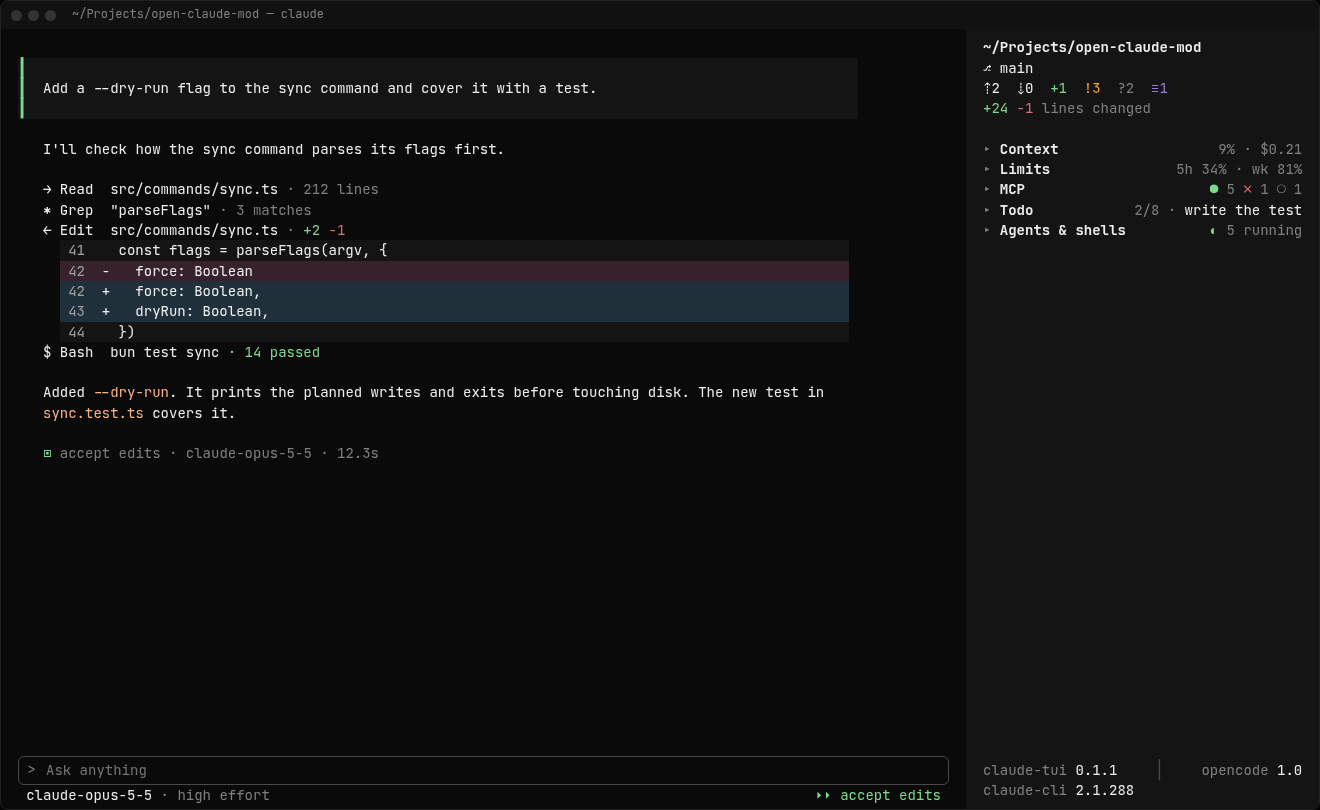
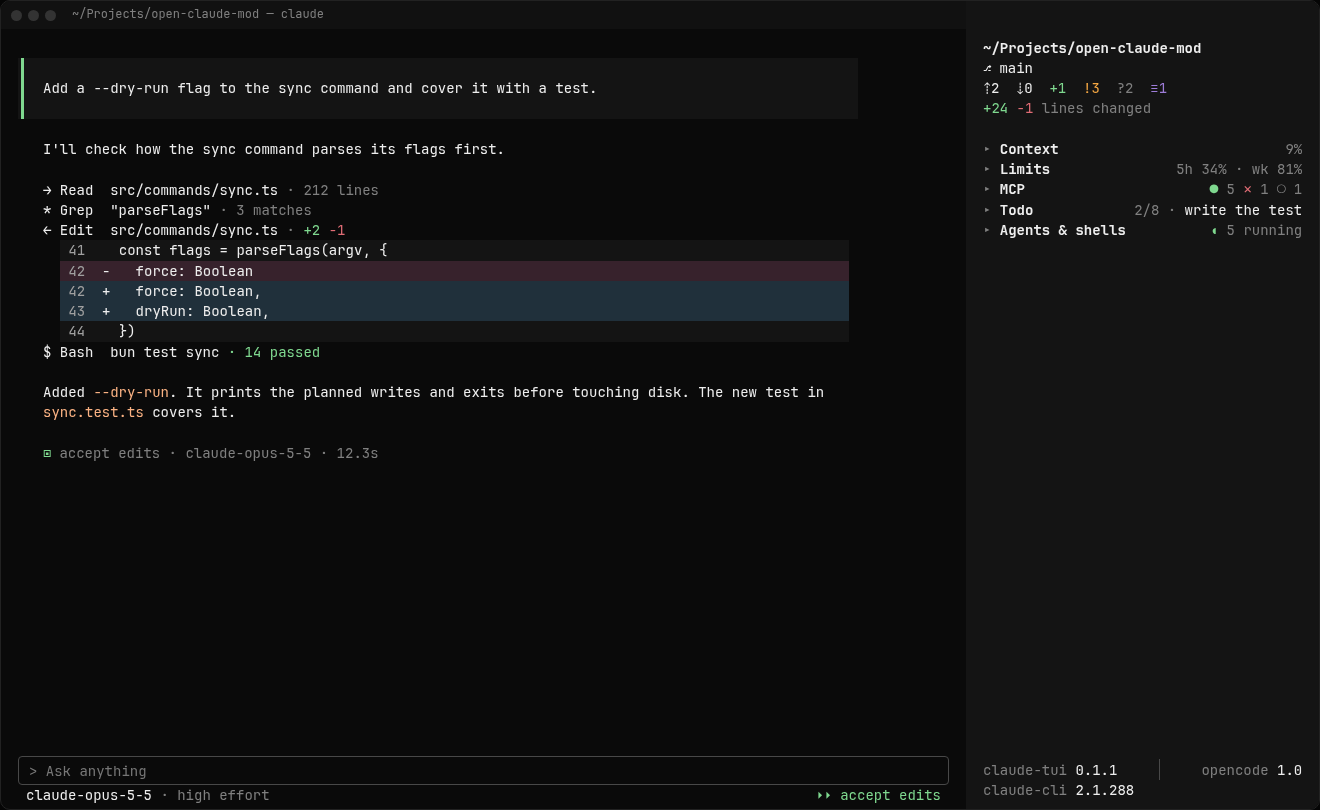
docs: redraw the Sidebar renders from an HTML source
Add docs/design/sidebar.html, which draws the three Sidebar renders,
and re-export the PNGs from it with Playwright at 1320x810. The redraw
changes only what 0.3.0 changes: Context drops the cost and folds to
9%, Limits ends with a cost row, and sections space 1/3 row under
expanded titles and 1.5 rows apart, drawn exactly.

Refs: #113

diff --git a/docs/design/sidebar.html b/docs/design/sidebar.html
@@ -1,0 +1,264 @@
+<!doctype html>
+<!--
+  The source of the three Sidebar renders in this folder.
+
+  Open it with ?render=1, 2 or 3 for one render at its 1320×810 size; with no
+  query it shows all three. To re-export the PNGs after an edit, from the repo root:
+
+    for r in 1-all-folded 2-some-folded 3-all-expanded; do
+      npx -y playwright@1.63.0 screenshot --viewport-size=1320,810 \
+        "file://$PWD/docs/design/sidebar.html?render=${r%%-*}" "docs/design/sidebar-$r.png"
+    done
+
+  The grid is 14px JetBrainsMono Nerd Font, the installed font the renders
+  were first drawn in: 8.4px columns, 20.25px rows. The Sidebar's spacing is in
+  px from the row height, exactly: 1/3 row under an expanded title, 1.5 rows
+  after an expanded section, none after a folded one.
+-->
+<html lang="en">
+<head>
+<meta charset="utf-8">
+<meta name="viewport" content="width=device-width, initial-scale=1">
+<title>Sidebar renders</title>
+<style>
+  :root {
+    --row: 20.25px;
+    --col: 8.4px;
+    --outside: #050505;
+    --frame: #222222;
+    --titlebar: #111111;
+    --dot: #333333;
+    --bg: #0a0a0a;
+    --panel: #141414;
+    --border: #484848;
+    --main: #eeeeee;
+    --muted: #808080;
+    --faint: #484848;
+    --placeholder: #767676;
+    --chevron: #797979;
+    --line-number: #a0a0a0;
+    --green: #7fd88f;
+    --red: #e06c75;
+    --orange: #f5a742;
+    --peach: #fab283;
+    --purple: #9d7cd8;
+    --diff-del: #37222c;
+    --diff-add: #20303b;
+  }
+  * { box-sizing: border-box; margin: 0; padding: 0; }
+  html, body { background: var(--outside); }
+  body {
+    font: 14px/var(--row) 'JetBrainsMono Nerd Font', monospace;
+    font-variant-ligatures: none;
+    color: var(--main);
+    -webkit-font-smoothing: antialiased;
+  }
+  body.all { display: flex; flex-direction: column; gap: 24px; padding: 24px; align-items: center; }
+
+  .window {
+    position: relative; width: 1320px; height: 810px; overflow: hidden;
+    background: var(--bg); border: 1px solid var(--frame); border-radius: 10px;
+  }
+  .titlebar {
+    position: absolute; left: 0; right: 0; top: 0; height: 28px; background: var(--titlebar);
+    font-size: 12px; line-height: 26px; letter-spacing: 0; color: var(--muted); padding-left: 71px;
+  }
+  .titlebar i { position: absolute; top: 9px; width: 11px; height: 11px; border-radius: 50%; background: var(--dot); }
+
+  .row { height: var(--row); white-space: pre; }
+  .split { display: flex; justify-content: space-between; }
+  .m { color: var(--muted); } .f { color: var(--faint); }
+  .g { color: var(--green); } .r { color: var(--red); } .o { color: var(--orange); }
+  .p { color: var(--peach); } .v { color: var(--purple); } .ln { color: var(--line-number); }
+  b { font-weight: 700; }
+
+  /* Transcript */
+  .transcript { position: absolute; left: 0; top: 57px; width: 965px; }
+  .transcript > .row { padding-left: 42px; }
+  .prompt {
+    width: 840px; margin-left: 17px; padding-left: 25px;
+    background: linear-gradient(var(--green), var(--green)) 2.5px 0 / 3px 100% no-repeat, var(--panel);
+  }
+  .code { margin-left: 59px; width: 789px; background: var(--panel); }
+  .code .del { background: var(--diff-del); } .code .add { background: var(--diff-add); }
+  .input {
+    position: absolute; left: 17px; top: 755px; width: 931px; height: 29px;
+    border: 1px solid var(--border); border-radius: 4px; padding-left: 10px;
+    line-height: 28px; color: var(--placeholder);
+  }
+  .mode { position: absolute; left: 25px; width: 915px; top: 784px; }
+
+  /* Sidebar */
+  .sidebar { position: absolute; left: 965px; right: 0; top: 0; bottom: 0; background: var(--panel); }
+  .body {
+    position: absolute; left: 17px; width: calc(38 * var(--col)); top: 36.5px; bottom: 9px;
+    display: flex; flex-direction: column;
+  }
+  .sections { flex: 1; overflow: hidden; }
+  .title-gap { height: calc(var(--row) / 3); }
+  .section-gap { height: calc(var(--row) * 1.5); }
+  .indent { padding-left: calc(2 * var(--col)); }
+  .more { text-align: right; }
+  .rule { position: absolute; left: 176px; margin-top: -0.5px; width: 1px; height: 21px; background: var(--faint); }
+</style>
+</head>
+<body>
+<script>
+  // What each render shows: a fold state per Sidebar plugin, and whether the
+  // sections window overflows into `↓ more`.
+  const RENDERS = {
+    1: { name: 'all-folded', expanded: [] },
+    2: { name: 'some-folded', expanded: ['context', 'todo', 'agents'] },
+    3: { name: 'all-expanded', expanded: ['context', 'limits', 'mcp', 'todo', 'agents'], lists: ['mcp', 'todo'], more: true },
+  }
+
+  const span = (cls, text) => `<span class="${cls}">${text}</span>`
+  const row = (html, cls = '') => `<div class="row ${cls}">${html}</div>`
+  const split = (left, right, cls = '') => row(`<span>${left}</span><span>${right}</span>`, `split ${cls}`)
+  const bar = (percent, cells, color) => {
+    const filled = Math.round((percent / 100) * cells)
+    return span(color, '━'.repeat(filled)) + span('f', '─'.repeat(cells - filled))
+  }
+
+  // Each section: its title, the right side folded (summary) and expanded
+  // (count), and its body rows. A list shows its first 4 rows plus a
+  // `▸ N more` row unless the render expands it.
+  const SECTIONS = [
+    {
+      id: 'context', title: 'Context',
+      summary: span('m', '9%'),
+      body: () => [
+        split(bar(9, 20, 'g'), '9%'),
+        row(span('m', '18,402 / 200k tokens')),
+      ],
+    },
+    {
+      id: 'limits', title: 'Limits',
+      summary: span('m', '5h 34% · wk 81%'),
+      body: () => [
+        split(`5h     ${bar(34, 20, 'g')}`, '34%'),
+        row(span('m', '       resets in 2h 17m')),
+        split(`week   ${bar(81, 20, 'o')}`, '81%'),
+        row(span('m', '       resets in 3d 4h, Mon 09:00')),
+        split('cost', span('m', '$0.21')),
+      ],
+    },
+    {
+      id: 'mcp', title: 'MCP',
+      summary: `${span('g', '●')}${span('m', ' 5 ')}${span('r', '✕')}${span('m', ' 1 ○ 1')}`,
+      count: span('m', '5/7'),
+      list: [
+        split(`${span('g', '●')} playwright`, span('m', '22 tools')),
+        split(`${span('g', '●')} Claude Docs`, span('m', '9 tools')),
+        split(`${span('r', '✕')} sentry`, span('r', 'failed')),
+        split(`${span('g', '●')} context7`, span('m', '2 tools')),
+        split(`${span('g', '●')} linear`, span('m', '31 tools')),
+        split(`${span('g', '●')} postgres`, span('m', '6 tools')),
+        split(`${span('m', '○')} github`, span('m', 'off')),
+      ],
+    },
+    {
+      id: 'todo', title: 'Todo',
+      summary: `${span('m', '2/8 · ')}write the test`,
+      count: span('m', '2/8'),
+      list: [
+        row(span('m', '✓ read sync command')),
+        row(span('m', '✓ add the flag')),
+        row(`${span('o', '◖')} write the test`),
+        row(span('m', '○ update README')),
+        row(span('m', '○ add --dry-run to help text')),
+        row(span('m', '○ check Windows paths')),
+        row(span('m', '○ run full test suite')),
+        row(span('m', '○ write changelog entry')),
+      ],
+    },
+    {
+      id: 'agents', title: 'Agents &amp; shells',
+      summary: `${span('g', '◖')}${span('m', ' 5 running')}`,
+      count: span('m', '5 running'),
+      list: [
+        split(`${span('g', '◖')} Explore ${span('m', '· map the auth fl…')}`, span('m', '1m 15s')),
+        split(`  ${span('m', '└')} ${span('g', '◖')} general-purpose ${span('m', '· read M…')}`, span('m', '21s')),
+        split('$ bun test --watch', span('m', '5m 03s')),
+        split('$ bun run dev --port 3000', span('m', '15m 03s')),
+        row(span('m', '○ bun run typecheck --watch')),
+      ],
+    },
+  ]
+  const CAP = 4
+
+  function sections(render) {
+    let html = ''
+    let gap = false
+    for (const section of SECTIONS) {
+      const expanded = render.expanded.includes(section.id)
+      if (gap) html += '<div class="section-gap"></div>'
+      gap = expanded
+      const right = expanded ? (section.count ?? '') : section.summary
+      html += split(`${span('m', expanded ? '▾' : '▸')} <b>${section.title}</b>`, right)
+      if (!expanded) continue
+      html += '<div class="title-gap"></div>'
+      let body = section.body ? section.body() : section.list
+      if (section.list) {
+        if (render.lists?.includes(section.id)) body = [...body, row(span('m', '▾ show less'))]
+        else if (body.length > CAP) body = [...body.slice(0, CAP), row(span('m', `▸ ${body.length - CAP} more`))]
+      }
+      html += `<div class="indent">${body.join('')}</div>`
+    }
+    return html
+  }
+
+  const TRANSCRIPT = `
+    <div class="prompt">
+      ${row('')}${row('Add a --dry-run flag to the sync command and cover it with a test.')}${row('')}
+    </div>
+    ${row('')}
+    ${row('I\'ll check how the sync command parses its flags first.')}
+    ${row('')}
+    ${row(`→ Read  src/commands/sync.ts ${span('m', '· 212 lines')}`)}
+    ${row(`* Grep  "parseFlags" ${span('m', '· 3 matches')}`)}
+    ${row(`← Edit  src/commands/sync.ts ${span('m', '·')} ${span('g', '+2')} ${span('r', '-1')}`)}
+    <div class="code">
+      ${row(`${span('ln', ' 41')}    const flags = parseFlags(argv, {`)}
+      ${row(`${span('ln', ' 42')}  -   force: Boolean`, 'del')}
+      ${row(`${span('ln', ' 42')}  +   force: Boolean,`, 'add')}
+      ${row(`${span('ln', ' 43')}  +   dryRun: Boolean,`, 'add')}
+      ${row(`${span('ln', ' 44')}    })`)}
+    </div>
+    ${row(`$ Bash  bun test sync ${span('g', '· 14 passed')}`)}
+    ${row('')}
+    ${row(`Added ${span('p', '--dry-run')}. It prints the planned writes and exits before touching disk. The new test in`)}
+    ${row(`${span('p', 'sync.test.ts')} covers it.`)}
+    ${row('')}
+    ${row(`${span('g', '▣')} ${span('m', 'accept edits · claude-opus-5-5 · 12.3s')}`)}
+  `
+
+  function draw(n) {
+    const render = RENDERS[n]
+    return `
+      <div class="window" id="render-${n}" title="sidebar-${n}-${render.name}.png">
+        <div class="titlebar"><i style="left:10px"></i><i style="left:27px"></i><i style="left:44px"></i>~/Projects/open-claude-mod — claude</div>
+        <div class="transcript">${TRANSCRIPT}</div>
+        <div class="input"><span style="color:var(--chevron)">&gt;</span> Ask anything</div>
+        <div class="mode split row"><span>claude-opus-5-5 ${span('m', '· high effort')}</span>${span('g', '⏵⏵ accept edits')}</div>
+        <div class="sidebar"><div class="body">
+          ${row('<b>~/Projects/open-claude-mod</b>')}
+          ${row('⎇ main')}
+          ${row(`⇡2  ⇣0  ${span('g', '+1')}  ${span('o', '!3')}  ${span('m', '?2')}  ${span('v', '≡1')}`)}
+          ${row(`${span('g', '+24')} ${span('r', '-1')} ${span('m', 'lines changed')}`)}
+          ${row('')}
+          <div class="sections">${sections(render)}</div>
+          ${render.more ? row(span('m', '↓ more'), 'more') : ''}
+          ${row('')}
+          ${split(`${span('m', 'claude-tui')} 0.1.1<i class="rule"></i>`, `${span('m', 'opencode')} 1.0`)}
+          ${row(`${span('m', 'claude-cli')} 2.1.288`)}
+        </div></div>
+      </div>`
+  }
+
+  const only = new URLSearchParams(location.search).get('render')
+  if (!only) document.body.classList.add('all')
+  document.body.innerHTML = (only ? [only] : Object.keys(RENDERS)).map(draw).join('')
+</script>
+</body>
+</html>

diff --git a/MEMORY.md b/MEMORY.md
@@ -264,3 +264,11 @@ Guidance:
 - Behaviour mocks can't reach is a live check in `docs/testing/live-checks.md` (setup, action, expected), by section: Sidebar docking, Sidebar layout and scroll, toasts, render-site rewrites, Themes, commands and pickers, `claude -p`. A root `CONTRIBUTING.md` explains it; `.github/pull_request_template.md` asks which sections ran on the pin. A `ctui/` PR runs the sections it touches, a pin bump runs the checks its ticket names, a pull request for a release or into `main` runs the full list (the human decided on 2026-10-07), and a docs-only PR answers N/A. Auto-merge doesn't wait on it.
 
 Reason: The human chose this in #42. `claude plugin test` loads tests from inside the mod folder, `validate --strict` passes with `tests/` there, and npm's `files` whitelist leaves it out (checked on 2.1.288). Docking, engine chrome, toast drawing and the fullscreen and main-screen looks need a signed-in terminal, so they stay manual.
+
+## Redraw the renders from `docs/design/sidebar.html` when ctui changes its own design
+
+Applies when: a change alters how ctui draws something the renders in `docs/design/` show.
+
+Guidance: Edit `docs/design/sidebar.html` in the same work and re-export the three PNGs with the command in its header comment. Draw in the installed JetBrainsMono Nerd Font: the web JetBrains Mono has a narrower advance, and its box-drawing glyphs fall back to another font that stretches the bars. The "Known differences from the renders" table in `docs/spec/v0.1.md` lists engine limits only, never ctui's own design changes.
+
+Reason: The human chose this in #109: the renders show ctui's own design as it ships, so a design change redraws them rather than adding a known difference. In #113 the Nerd Font reproduced the 0.1 PNGs to within a pixel; the web font didn't.
